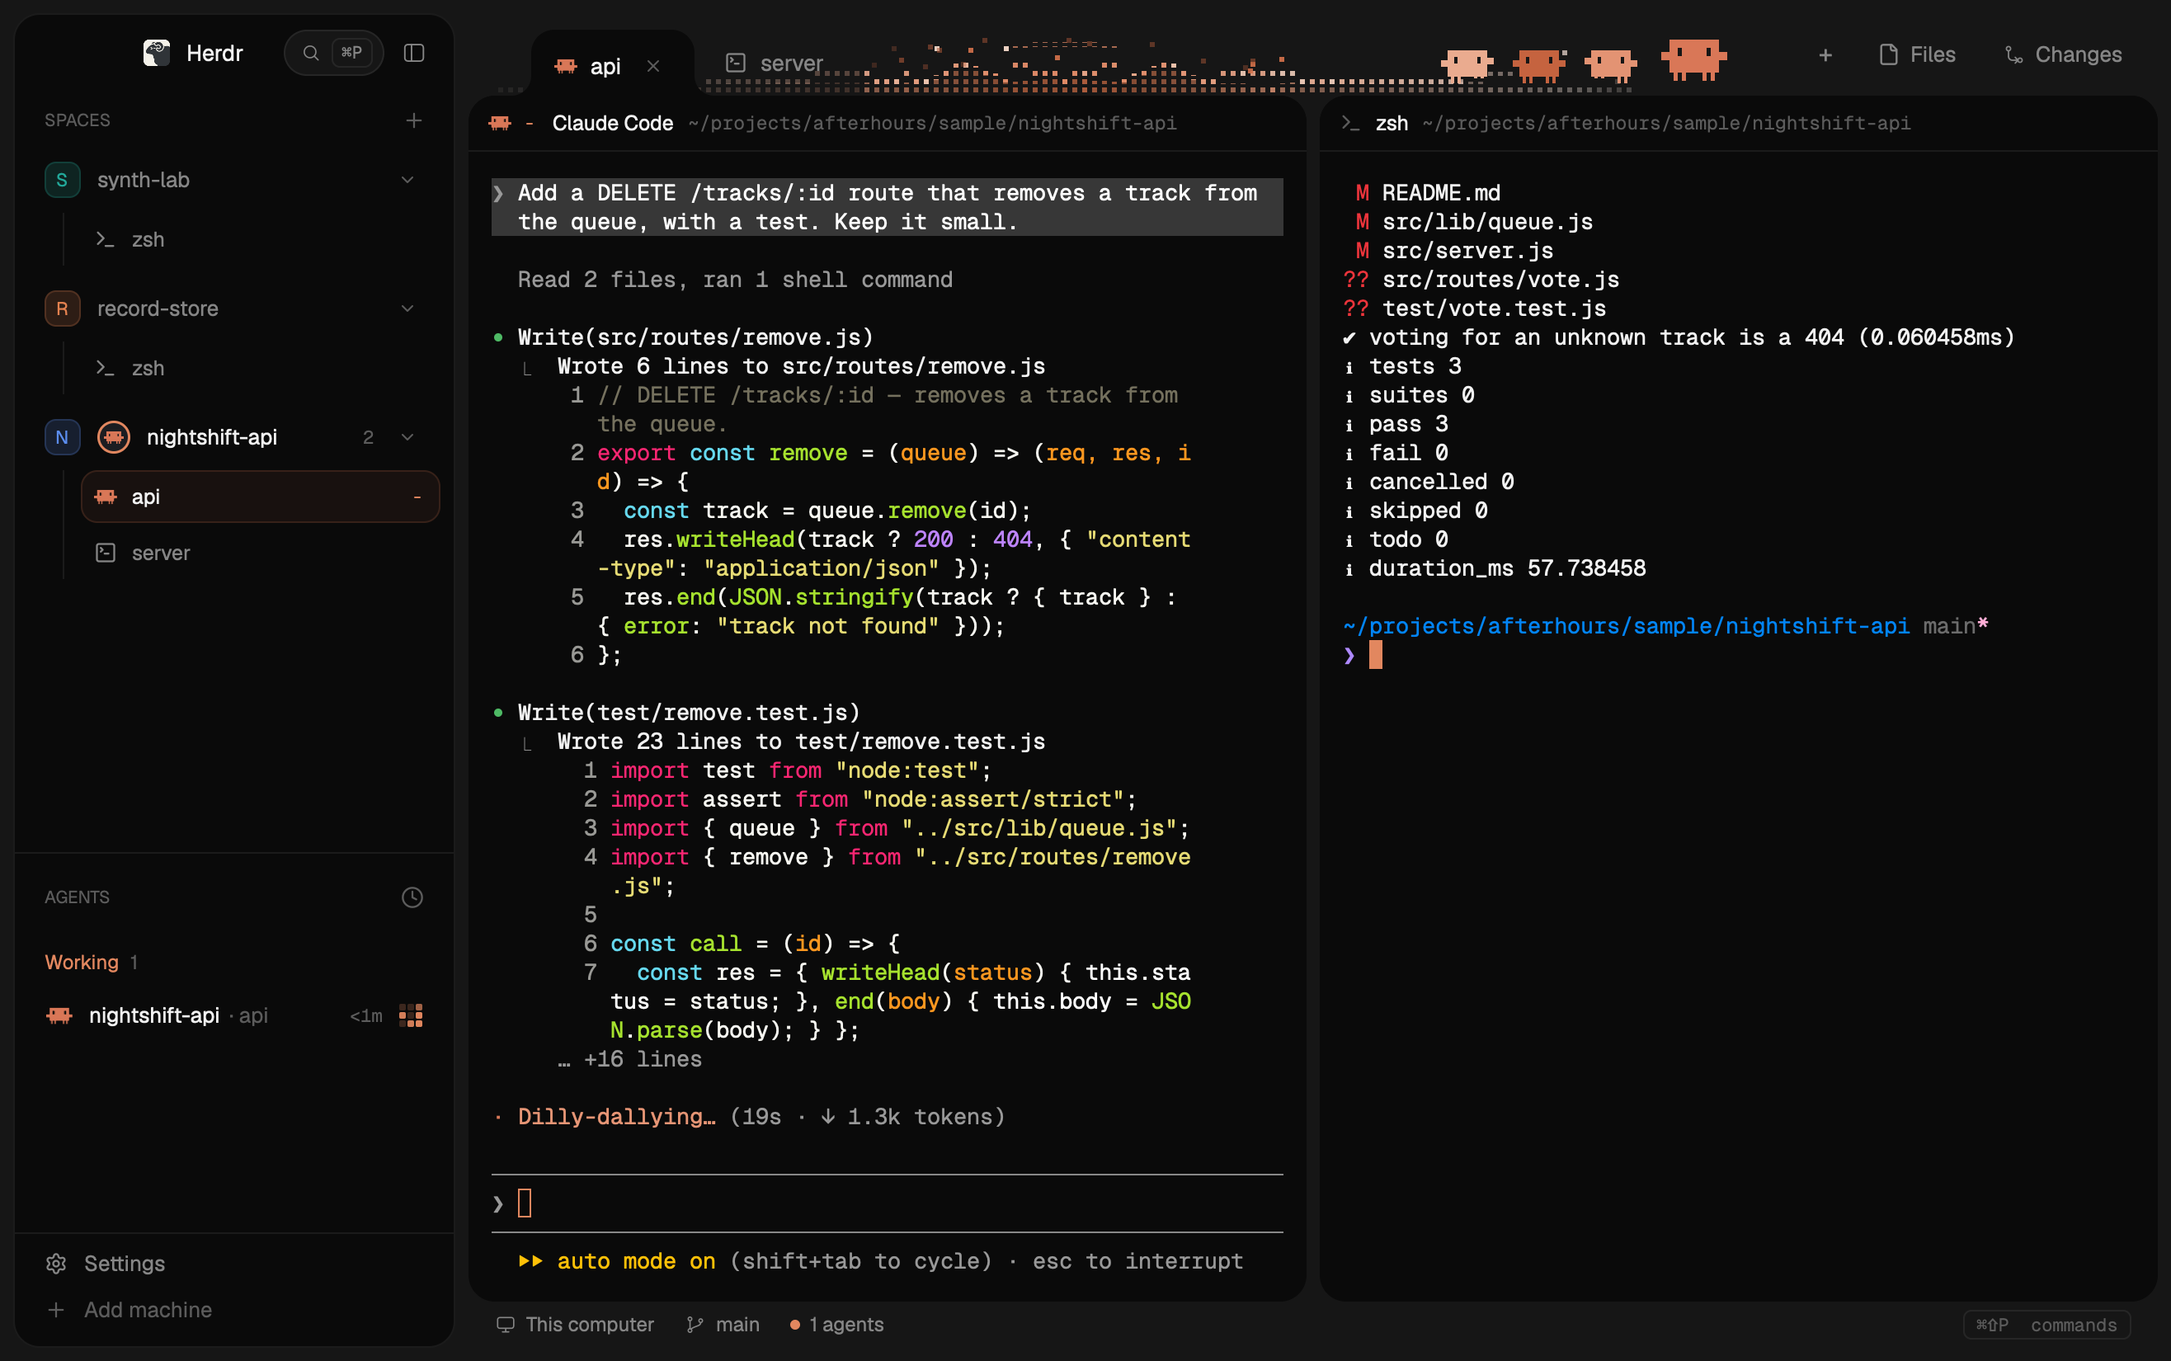
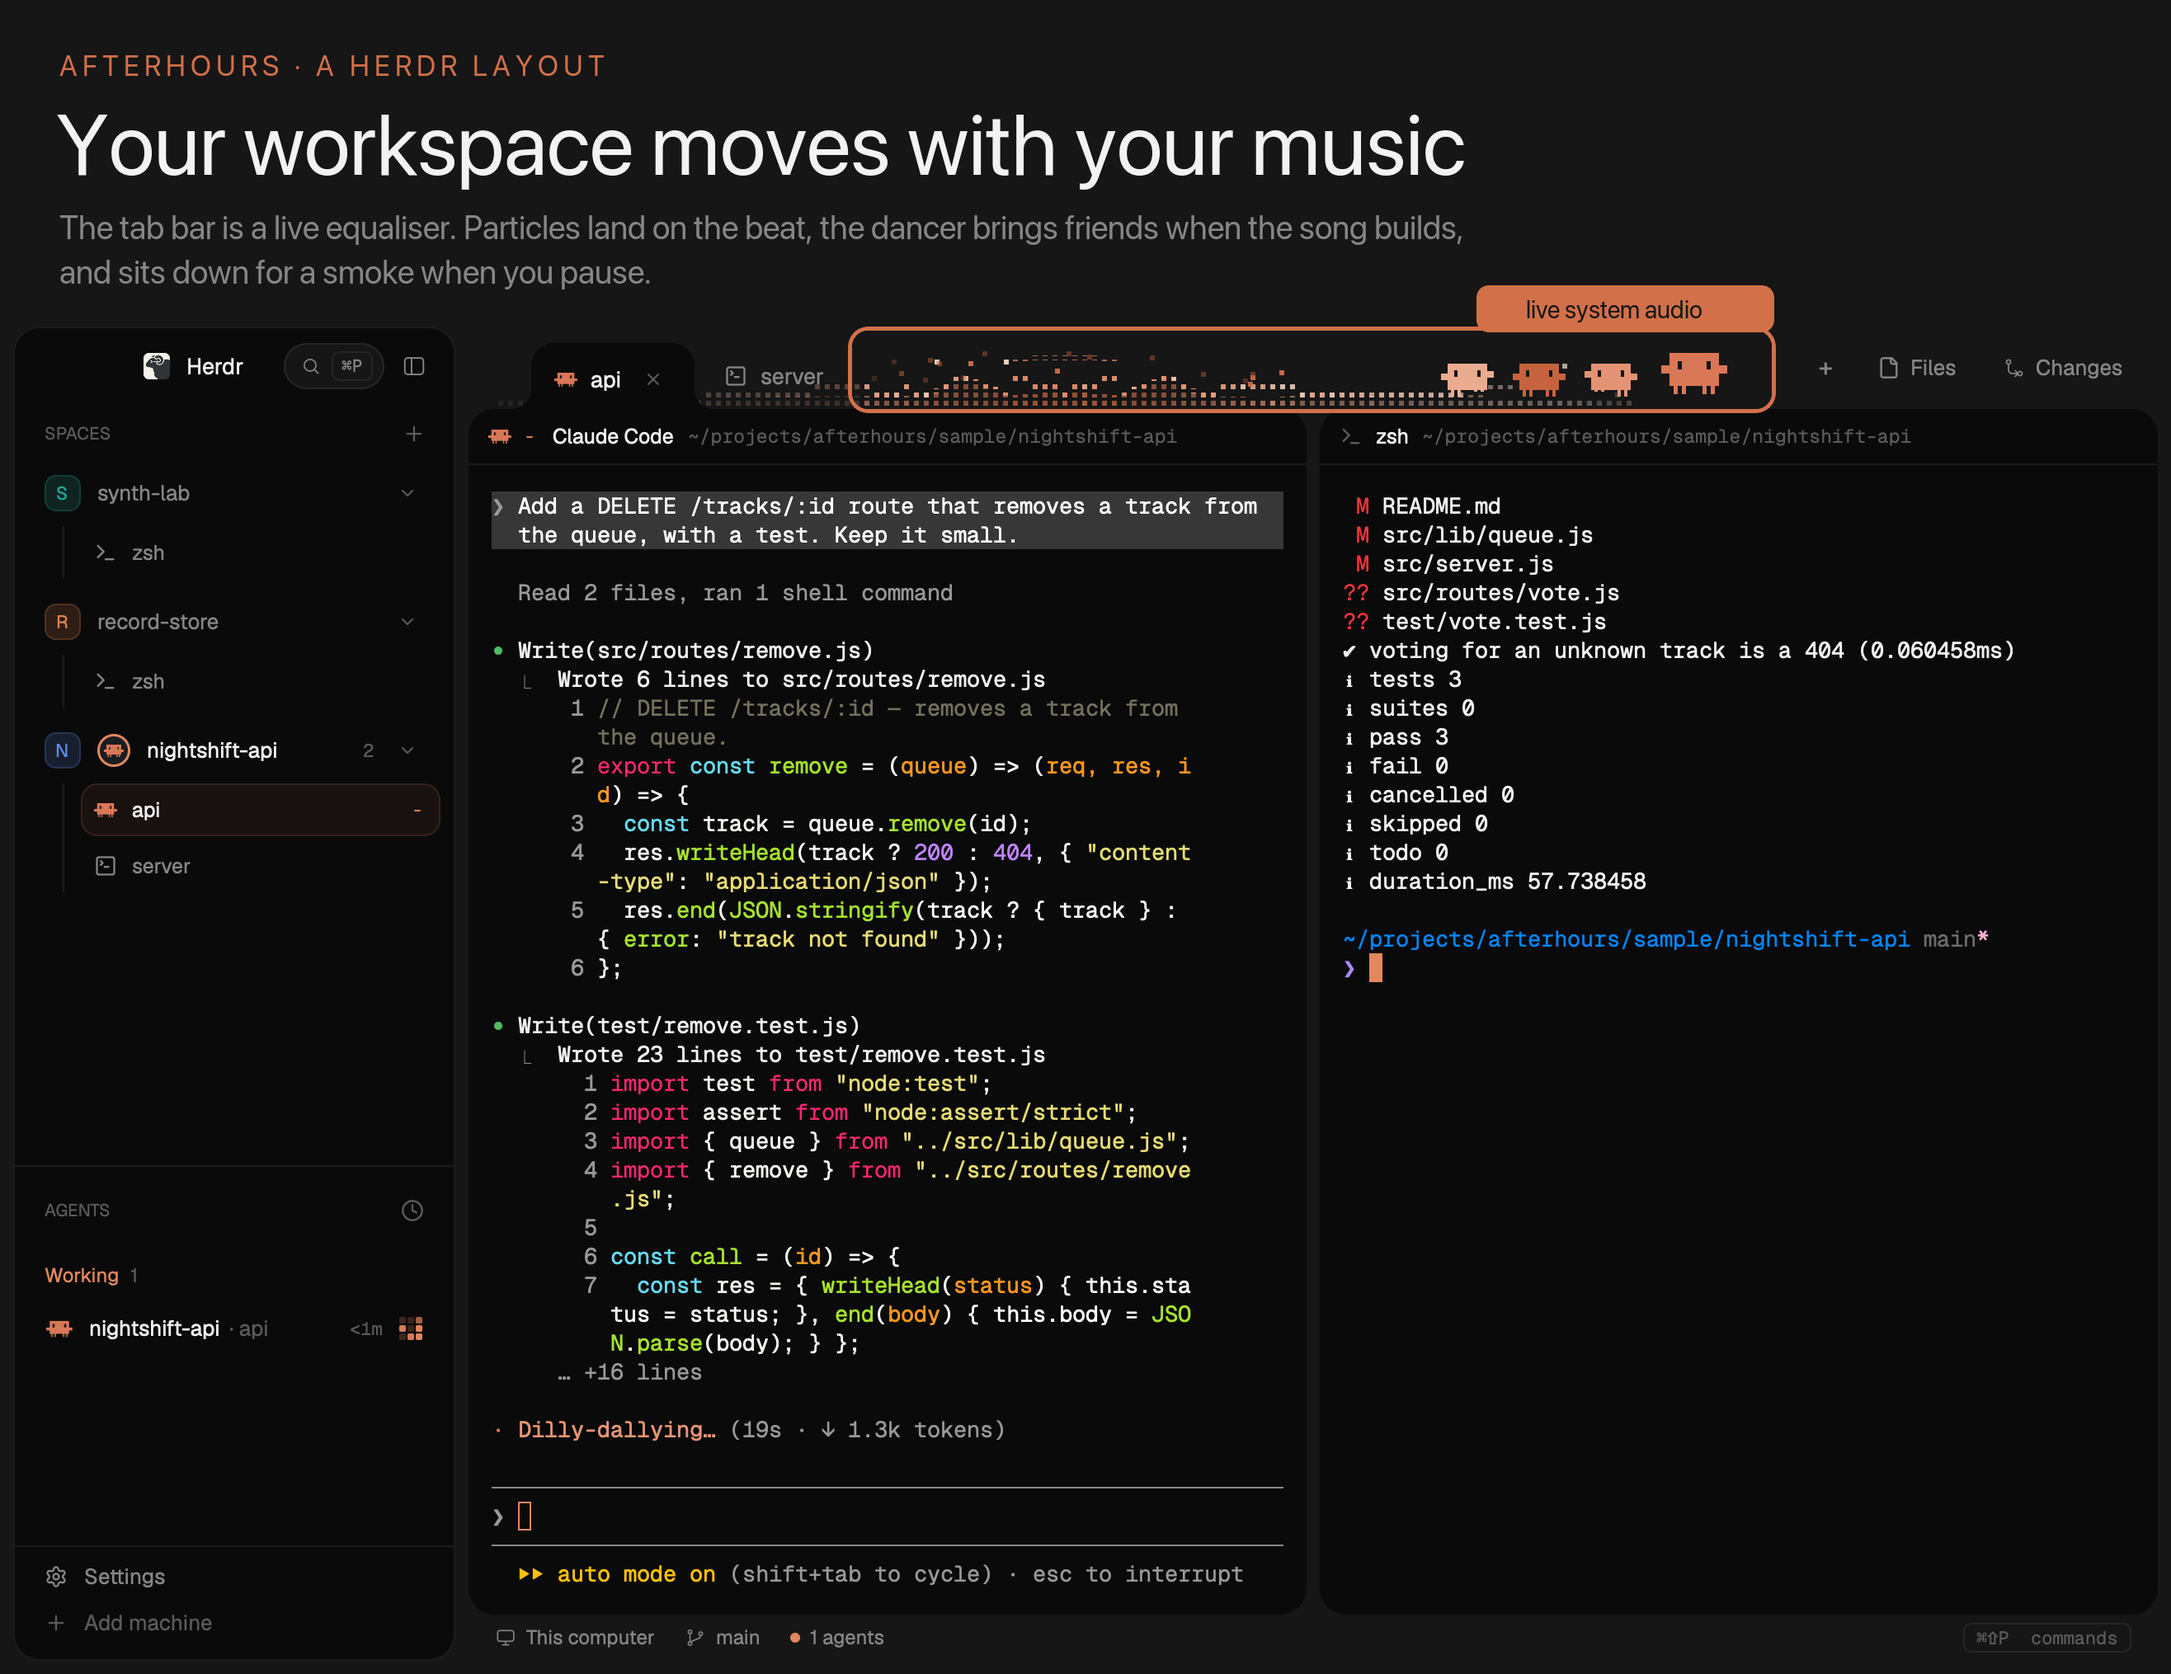
Preview says the layout moves with music

diff --git a/README.md b/README.md
@@ -19,7 +19,7 @@ With no helper built, or on Linux and Windows, the bar shows a dim dotted baseli
 
 ## The rest
 
-![Afterhours](preview.png)
+![The workspace](screenshots/workspace.png)
 
 - **Sidebar.** Spaces with a tinted letter tile, the logos of the agents running in them, and their tabs nested under a guide line. Below, agents grouped by state: Needs you, Working (a pulsing 3×3 dot matrix), Done, Idle. Dragged under 160 px it becomes an icon rail with hover cards.
 - **Tabs.** The open tab's surface flows into the pane below it and glides to whichever tab you pick.
